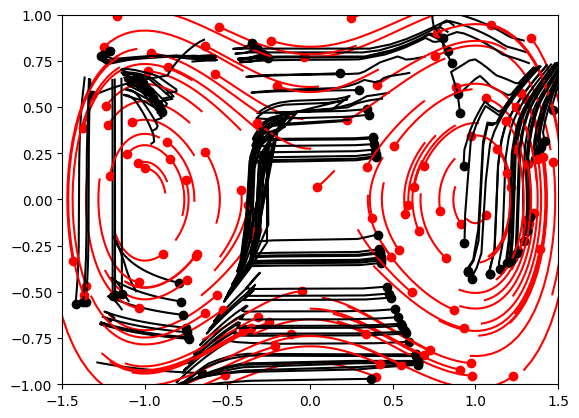
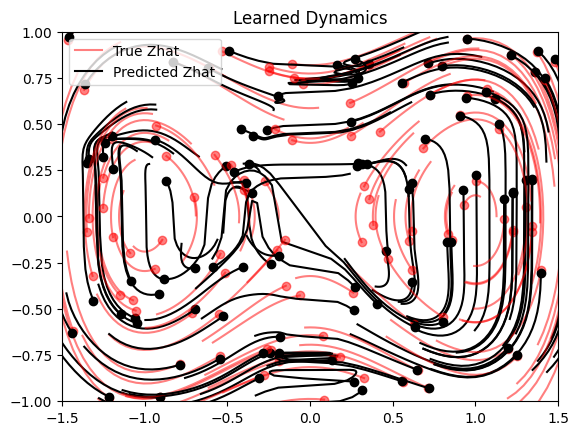
Correct and working NODE_wEncoder

diff --git a/PhysicsInformedNeuralODEwAutoencoder_HW6/NODE_wEncoder.py b/PhysicsInformedNeuralODEwAutoencoder_HW6/NODE_wEncoder.py
@@ -82,7 +82,7 @@ def my_loss_func(modelf, xf, x_colf, f_colf, t_trainf, lossfnf, ef):
     col_phys_loss = lossfnf(zdot_col, dzdt)
     #reconstruction2 loss mse(x_col, decode(encode(x_col)))
     col_recon_loss = lossfnf(x_colf, modelf.decoder_psi_network(z_col))
-    if (ef+1)%100 == 0:
+    if (ef+1)%1000 == 0:
         print('data_loss', data_loss)
         print('data_recon_loss', data_recon_loss)
         print('col_phys_loss', col_phys_loss)
@@ -119,7 +119,7 @@ t_test = np.linspace(0.0, 1.0, nt_test)
 # You will need more training pts and collocation pts eventually (testing pts can remain as is).
 ntrain = 600
 ntest = 100
-ncol = 10000
+ncol = 1000
 Xtrain, Xtest, Xcol, fcol, Amap = getdata(ntrain, ntest, ncol, t_train, t_test)
 #convert to tensors
 Xtrain_tensor = torch.tensor(Xtrain, dtype = torch.float64)
@@ -135,21 +135,21 @@ t_test_tensor = torch.tensor(t_test, dtype = torch.float64)
 # fcol is ncol x nx and represents f(Xcol)
 # Amap is only needed for final plot (see function below)
 #initialize the model 
-hlayers = 6
+hlayers = 5
 num_inputs = Xtrain.shape[2]
 n_min = 2
 model = MyBigNetwork(num_inputs, n_min, hlayers)
 model.double()
 # print(model.network[2].weight.shape)
 # optimizer = torch.optim.Adam(model.parameters(), lr = .1)
-optimizer = optim.Adam(model.parameters(), lr = 1e-3)
-my_lr_scheduler = lr_scheduler.StepLR(optimizer, step_size = 500, gamma = 0.8)
+optimizer = optim.Adam(model.parameters(), lr = .01)
+my_lr_scheduler = lr_scheduler.StepLR(optimizer, step_size = 1000, gamma = 0.5)
 
 # training loop
-epochs = 1000
+epochs = 5000 #at 4500 I had 0.106 for last test loss
 train_losses = []
 test_losses = []
-plotter_val = 100
+plotter_val = 500
 
 for e in range(epochs): #range(epochs[i]):
         train_losses.append(train(Xtrain_tensor, Xcol_tensor, fcol_tensor, t_train_tensor, model, optimizer, nn.MSELoss(),e))
@@ -171,11 +171,12 @@ for e in range(epochs): #range(epochs[i]):
             plt.show()
             plt.pause(0.001) 
 
-#!Plot train *and* test losses
 
 # evaluate
 model.eval()
 Xhat = model.forward(Xtest_tensor[:, 0, :], t_test_tensor)
+# test_loss = nn.MSELoss()(Xhat, Xtest_tensor)
+# test_losses.append(test_loss.item())
 # once you have a prediction for Xhat(t) (ntest x nt_test x nx)
 # this will use this specific projection to Z, to create a plot
 # like the bottom right corner of Fig 3
@@ -184,18 +185,39 @@ Zhat_true = true_encoder(Xtest, Amap)
 
 #%% plotting
 #plot losses 
-plt.figure
-plt.semilogy(train_losses)
-plt.semilogy(test_losses)
+plt.figure()
+plt.semilogy(train_losses, label = 'Training Loss')
+plt.semilogy(range(500,5500,500),test_losses, label = 'Testing Loss') 
+plt.title('Training and Testing Losses')
+plt.xlabel('Epochs')
+plt.ylabel('MSE Loss')
+plt.legend()
+plt.show()
 
 plt.figure()
-for i in range(0, ntest):
+add_true_label = True
+add_predicted_label = True
+
+for i in range(ntest):
+    plt.plot(Zhat_true[i, 0, 0], Zhat_true[i, 0, 1], "ro", alpha=0.5)
+    if add_true_label:
+        plt.plot(Zhat_true[i, :, 0], Zhat_true[i, :, 1], "r", alpha=0.5, label='True Zhat')
+        add_true_label = False
+    else:
+        plt.plot(Zhat_true[i, :, 0], Zhat_true[i, :, 1], "r", alpha=0.5)
+    
     plt.plot(Zhat[i, 0, 0], Zhat[i, 0, 1], "ko")
-    plt.plot(Zhat_true[i, 0, 0], Zhat_true[i, 0, 1], "ro")
-    plt.plot(Zhat[i, :, 0], Zhat[i, :, 1], "k")
-    plt.plot(Zhat_true[i, :, 0], Zhat_true[i, :, 1], "r")
+    if add_predicted_label:
+        plt.plot(Zhat[i, :, 0], Zhat[i, :, 1], "k", label='Predicted Zhat')
+        add_predicted_label = False
+    else:
+        plt.plot(Zhat[i, :, 0], Zhat[i, :, 1], "k")
+    
     plt.xlim([-1.5, 1.5])
     plt.ylim([-1, 1])
 
+plt.legend()
+plt.title('Learned Dynamics')
 plt.show()
+
 # %%
